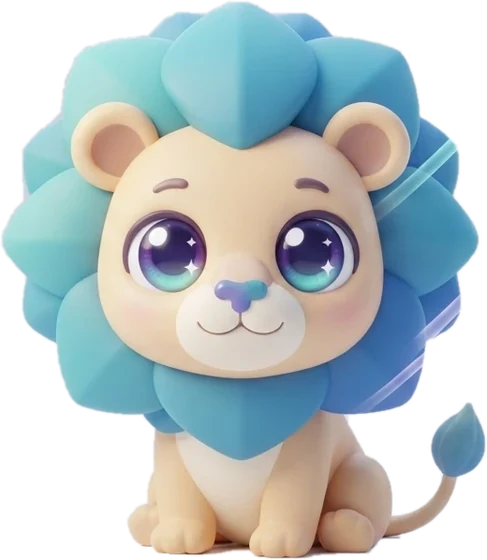
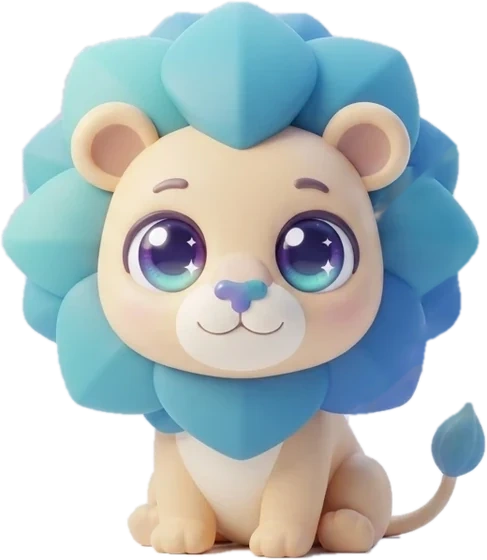
Smooth the DCXI character entrance and clean its image
The glitch entrance sliced the image into bands and shifted its hue, which
read as a broken render; it now scans in smoothly with a blue glow. Leftover
glass streaks over the lion's mane are inpainted out of dcxi.webp.

Claude-Session: https://claude.ai/code/session_01KBLgC8HfqR1Z8p8BK3viao

diff --git a/ksa-awards/index.html b/ksa-awards/index.html
@@ -155,8 +155,9 @@ p{margin:0}
 @keyframes bfly-open-r{0%{transform:scaleX(.08)}45%{transform:scaleX(1.28) rotate(-16deg)}70%{transform:scaleX(.9) rotate(-4deg)}100%{transform:none}}
 @keyframes bfly-flap{from{transform:scaleX(1)}to{transform:scaleX(.72)}}
 @keyframes c-float{0%,100%{translate:0 0}50%{translate:0 -10%}}
-.char-pop.on.m-glitch .char-fig{animation:char-glitch .7s steps(1) both,tada-roar .55s .72s cubic-bezier(.3,1.6,.5,1) both,c-float 3s 1.4s ease-in-out infinite}
-@keyframes char-glitch{0%{translate:0 0;clip-path:inset(0 0 70% 0);filter:hue-rotate(60deg)}15%{translate:4% 0;clip-path:inset(40% 0 30% 0)}30%{translate:-4% 0;clip-path:inset(10% 0 50% 0);filter:hue-rotate(-40deg)}45%{translate:1% 0;clip-path:inset(60% 0 0 0)}60%{translate:-1% 0;clip-path:inset(0 0 20% 0)}75%,100%{translate:0 0;clip-path:none;filter:drop-shadow(0 12px 18px rgba(0,0,0,.45))}}
+/* DCXI: materialises like a hologram — a smooth bottom-up scan with a blue glow (no image slicing or colour shift) */
+.char-pop.on.m-glitch .char-fig{animation:char-digital .75s cubic-bezier(.25,.8,.3,1) both,tada-roar .55s .72s cubic-bezier(.3,1.6,.5,1) both,c-float 3s 1.4s ease-in-out infinite}
+@keyframes char-digital{0%{opacity:0;clip-path:inset(100% -40% -40% -40%);filter:brightness(1.5) drop-shadow(0 0 16px rgba(123,147,245,.9))}60%{opacity:1;clip-path:inset(-40% -40% -40% -40%);filter:brightness(1.18) drop-shadow(0 0 16px rgba(123,147,245,.8))}100%{opacity:1;clip-path:inset(-40% -40% -40% -40%);filter:drop-shadow(0 12px 18px rgba(0,0,0,.45))}}
 @keyframes tada-roar{0%{transform:none}30%{transform:scale(1.2) rotate(-4deg)}45%{transform:scale(1.16) rotate(4deg)}60%{transform:scale(1.18) rotate(-3deg)}100%{transform:none}}
 @media (prefers-reduced-motion:reduce){.char-pop .ant{animation:none!important}.char-pop *,.char-pop .char-in{animation:none!important}.char-burst{display:none}}
 .board-head{display:flex;justify-content:space-between;align-items:baseline;font-family:var(--f-mono);font-size:.7rem;letter-spacing:.12em;color:var(--on-navy-2);text-transform:uppercase;padding-bottom:var(--s-4);border-bottom:1px solid rgba(255,255,255,.14)}
